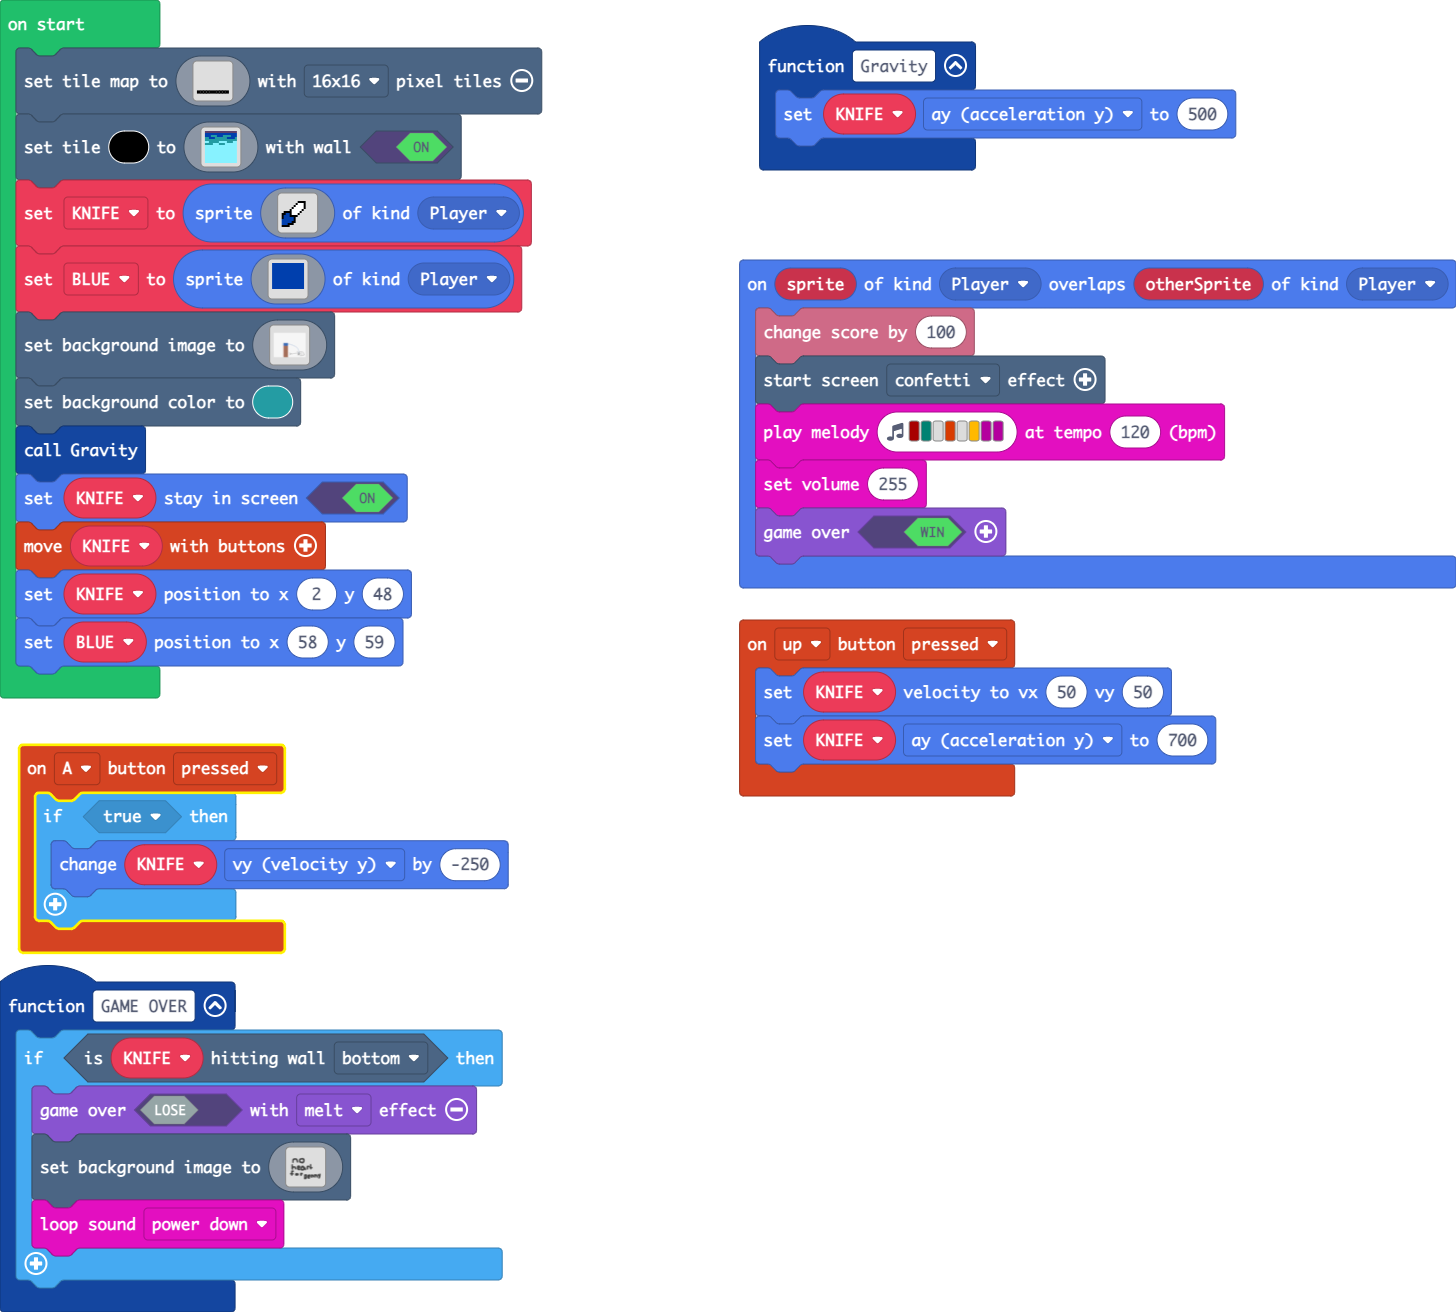
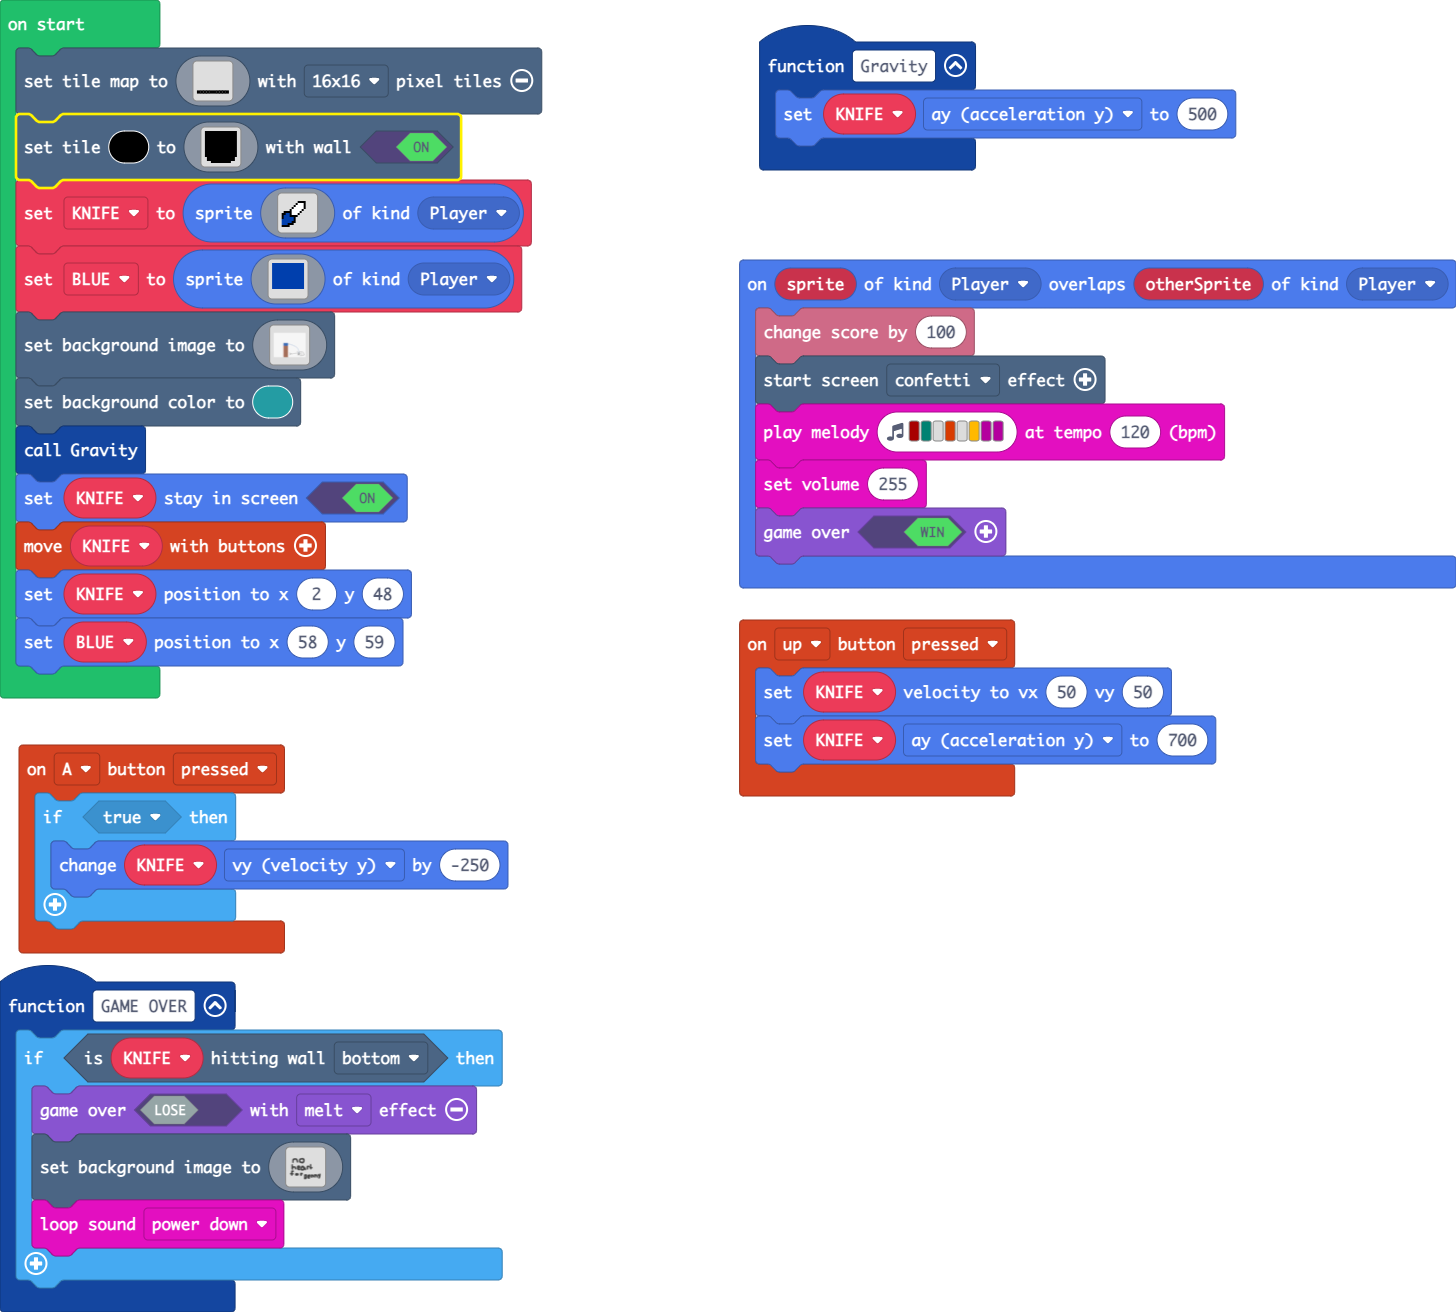
Update pxt.json, main.blocks, main.ts

diff --git a/main.ts b/main.ts
@@ -160,22 +160,22 @@ scene.setTileMap(img`
     f f f f f f f f f f 
     `, TileScale.Sixteen)
 scene.setTile(15, img`
-    c c c c c c c c c c c c c c c c 
-    8 8 8 8 8 8 8 8 8 8 8 8 8 8 8 8 
-    8 8 8 6 6 6 8 8 8 6 6 6 6 8 8 8 
-    6 6 8 8 8 6 6 6 6 6 6 8 8 8 8 6 
-    6 6 6 6 6 6 6 6 6 6 6 6 6 6 6 6 
-    9 9 6 6 6 6 6 9 9 9 9 6 6 6 9 9 
-    6 6 6 6 9 9 9 6 6 6 9 9 9 9 9 9 
-    9 9 9 9 9 9 9 9 9 9 9 9 9 9 9 9 
-    9 9 9 9 9 9 9 9 9 9 9 9 9 9 9 9 
-    9 9 9 9 9 9 9 9 9 9 9 9 9 9 9 9 
-    9 9 9 9 9 9 9 9 9 9 9 9 9 9 9 9 
-    9 9 9 9 9 9 9 9 9 9 9 9 9 9 9 9 
-    9 9 9 9 9 9 9 9 9 9 9 9 9 9 9 9 
-    9 9 9 9 9 9 9 9 9 9 9 9 9 9 9 9 
-    9 9 9 9 9 9 9 9 9 9 9 9 9 9 9 9 
-    9 9 9 9 9 9 9 9 9 9 9 9 9 9 9 9 
+    f f f f f f f f f f f f f f f f 
+    f f f f f f f f f f f f f f f f 
+    f f f f f f f f f f f f f f f f 
+    f f f f f f f f f f f f f f f f 
+    f f f f f f f f f f f f f f f f 
+    f f f f f f f f f f f f f f f f 
+    f f f f f f f f f f f f f f f f 
+    f f f f f f f f f f f f f f f f 
+    f f f f f f f f f f f f f f f f 
+    f f f f f f f f f f f f f f f f 
+    f f f f f f f f f f f f f f f f 
+    f f f f f f f f f f f f f f f f 
+    f f f f f f f f f f f f f f f f 
+    . f f f f f f f f f f f f f f . 
+    . f f f f f f f f f f f f f f . 
+    . . . f f f f f f f f f f . . . 
     `, true)
 KNIFE = sprites.create(img`
     . . . . . . . . . . . . . . . . 
